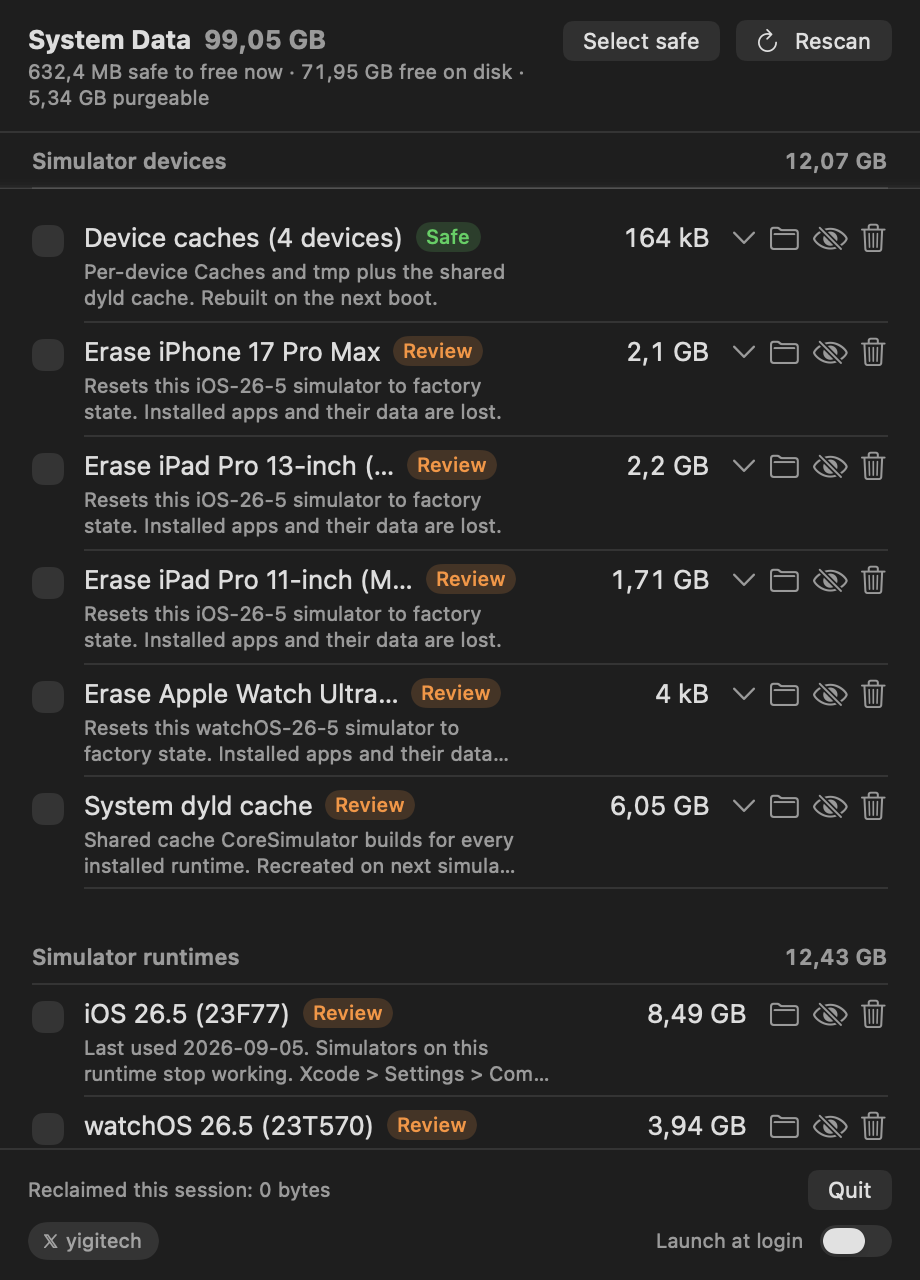
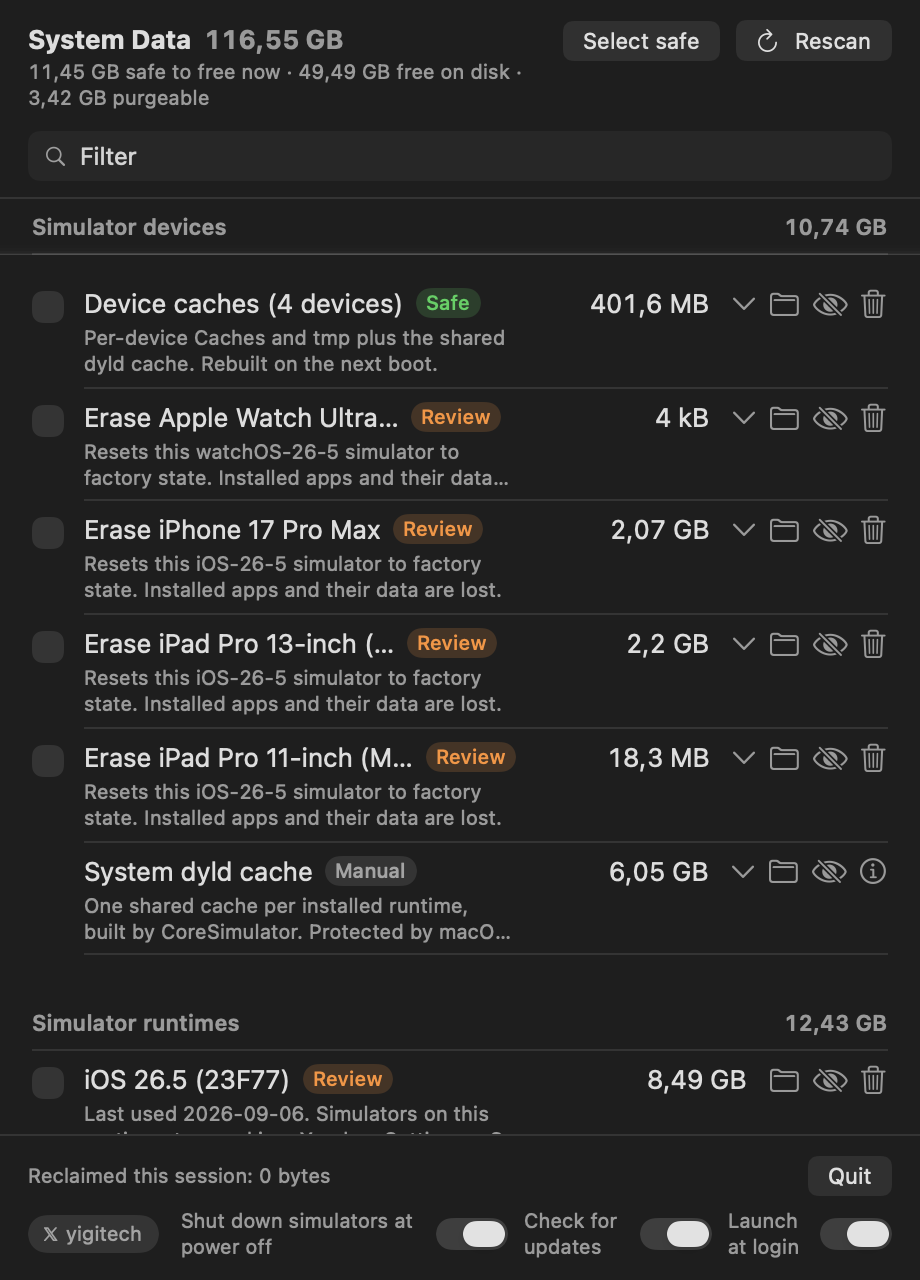
docs: bring the README up to today
Six merged pull requests and four releases had moved past it.

- The screenshot predates the filter field and the update switch; regenerated
  with the app's own --screenshot.
- Desktop, Documents and Downloads are now left out of the catch-all, and the
  README said the opposite by omission. That is the change most worth a
  reader's attention, so it says why: those folders hold work no delete
  brings back.
- The AI coding tools and the web frameworks' build folders are recognised
  now and were missing from both tables.
- Updates moved below Install, because a reader met it before knowing how to
  install anything; the checks moved down with the other contributor notes.

diff --git a/README.md b/README.md
@@ -12,7 +12,7 @@
 </p>
 
 <p align="center">
-  <img src="assets/screenshot.png" width="460" alt="The System Data window listing simulator runtimes, Xcode caches and other items with their sizes">
+  <img src="assets/screenshot.png" width="460" alt="The System Data window: a filter field under the header, then simulator devices and runtimes listed with their sizes and safety badges">
 </p>
 
 ---
@@ -26,27 +26,6 @@ machine disks, the unified log, per-app data folders.
 This app opens the bucket. It is not a cache cleaner: `~/Library/Caches` is
 one small line among fifty, and the app never deletes anything you did not
 click.
-
-## Updates
-
-The app can check GitHub once a day for a newer release and offer to install
-it. It is **off by default**, and it is the only network request the app
-makes: with the switch off, nothing leaves the Mac.
-
-Installing replaces the app in place. Before anything is moved, the download
-must have come from `github.com` over HTTPS, pass the same Gatekeeper
-assessment a fresh download gets, and be signed by the same team as the copy
-asking for the update. Anything else is discarded with a message, and the
-installed app is left alone.
-
-## Checks
-
-```bash
-scripts/ci.sh                        # build, tests, lint, bundle, strings
-SYSDATA_SCAN_TESTS=1 scripts/ci.sh   # and the tests that walk the whole disk
-```
-
-Run before pushing; the release script runs it too.
 
 ## Install
 
@@ -74,6 +53,18 @@ open build/SysDataMenu.app
 ```
 
 The app has a **Launch at login** switch in its footer.
+
+## Updates
+
+The app can check GitHub once a day for a newer release and offer to install
+it. It is **off by default**, and it is the only network request the app
+makes: with the switch off, nothing leaves the Mac.
+
+Installing replaces the app in place. Before anything is moved, the download
+must have come from `github.com` over HTTPS, pass the same Gatekeeper
+assessment a fresh download gets, and be signed by the same team as the copy
+asking for the update. Anything else is discarded with a message, and the
+installed app is left alone.
 
 ## What it does
 
@@ -120,7 +111,7 @@ The app has a **Launch at login** switch in its footer.
 | Simulator runtimes | each installed runtime disk image | Review |
 | Xcode | DerivedData, DeviceSupport, preview devices, caches, Archives, inactive Xcode.app copies | Safe / Review |
 | Package managers | brew, npm, pnpm, yarn, pip, uv, CocoaPods, Gradle, Cargo, SwiftPM, Go, Cypress, Playwright; the whole Homebrew prefix | Safe / Manual |
-| Developer tool data | Ollama and Hugging Face models, nvm/rustup/pyenv/rbenv/SDKMAN toolchains, conda, Maven, CocoaPods specs, Gradle distributions, Go modules, Bun, Deno, VS Code and Cursor extensions, Docker CLI, OrbStack, Lima, Colima, Claude Code, Codex; any other hidden home folder over 100 MB | Safe / Review |
+| Developer tool data | Ollama and Hugging Face models, nvm/rustup/pyenv/rbenv/SDKMAN toolchains, conda, Maven, CocoaPods specs, Gradle distributions, Go modules, Bun, Deno, VS Code and Cursor extensions, Docker CLI, OrbStack, Lima, Colima; the AI coding tools (Claude Code, Codex, Grok, Copilot, Kilo, Gemini, Antigravity); any other hidden home folder over 100 MB | Safe / Review |
 | Logs & diagnostics | unified log store (`log erase`), crash reports, ASL, `~/Library/Logs` | Safe |
 | Temporary files | `/private/var/folders` user cache and temp, files older than 3 days | Safe |
 | Docker | `docker system prune` reclaimable space | Review |
@@ -130,14 +121,21 @@ The app has a **Launch at login** switch in its footer.
 | Shared & other users | `/Users/Shared` app data (BlueStacks and friends), other accounts | Review / Manual |
 | Android | AVD emulators, SDK system images, platforms, build tools, NDK, emulator, Android Studio caches | Review / Safe |
 | App data & caches | Slack, Discord, Teams, Zoom, Spotify, Safari, Adobe, Steam, Epic, Photos, Quick Look and Final Cut render caches; Claude VM bundles; Chrome on-device model; any Application Support / Containers / Group Containers folder over 200 MB, caches over 100 MB | Safe / Review |
-| Project build folders | `node_modules`, `.build`, `Pods`, `DerivedData` under Desktop, Documents, Developer, Projects | Review |
+| Project build folders | `node_modules`, `.build`, `Pods`, `DerivedData`, and the web frameworks' output (`.next`, `.nuxt`, `.svelte-kit`, `.astro`, `.angular`, `.turbo`, `.parcel-cache`, `.expo`) under Desktop, Documents, Developer, Projects | Review |
 | System | macOS installers, device firmware, Mail downloads, `/Library/Caches`, `/Library/Application Support`, Command Line Tools, cryptexes, Spotlight index, swap, iCloud local copies | Safe / Review / Manual |
 | Other large folders | catch-all: every folder over 500 MB under `~`, `/Library`, `/private/var`, `/opt`, `/usr/local` and `/Users/Shared` that no category above explains, shown with its full path | Review |
 
 The catch-all pass runs last and takes the longest (it walks the home folder
-once). The header shows which phase the scan is in. Folders Finder attributes
-to Photos, Music, Movies, Messages, Mail, iCloud Drive and Applications are
-skipped because they are not System Data.
+once, skipping everything another probe already explains). The header shows
+which phase the scan is in.
+
+Folders Finder attributes to Photos, Music, Movies, Messages, Mail, iCloud
+Drive and Applications are left out, because they are not System Data.
+**Desktop, Documents and Downloads are left out too**, for a second reason:
+Storage settings counts them as Documents, and what is in them is your own
+work, which no delete regenerates. The things under them that *are*
+reclaimable — build folders, virtual machines, render files — still each get
+their own row, named for what they are.
 
 ## Permissions, once
 
@@ -196,6 +194,15 @@ probe and registering it in `ProbeRegistry`.
 Interface strings live in `Resources/Localizable.xcstrings`;
 `scripts/compile-strings.sh` turns the catalog into the `.lproj` tables
 SwiftPM ships, and a test checks that every key has a Turkish translation.
+
+## Checks
+
+```bash
+scripts/ci.sh                        # build, tests, lint, bundle, strings
+SYSDATA_SCAN_TESTS=1 scripts/ci.sh   # and the tests that walk the whole disk
+```
+
+Run before pushing; the release script runs it too.
 
 ## Releasing
 
